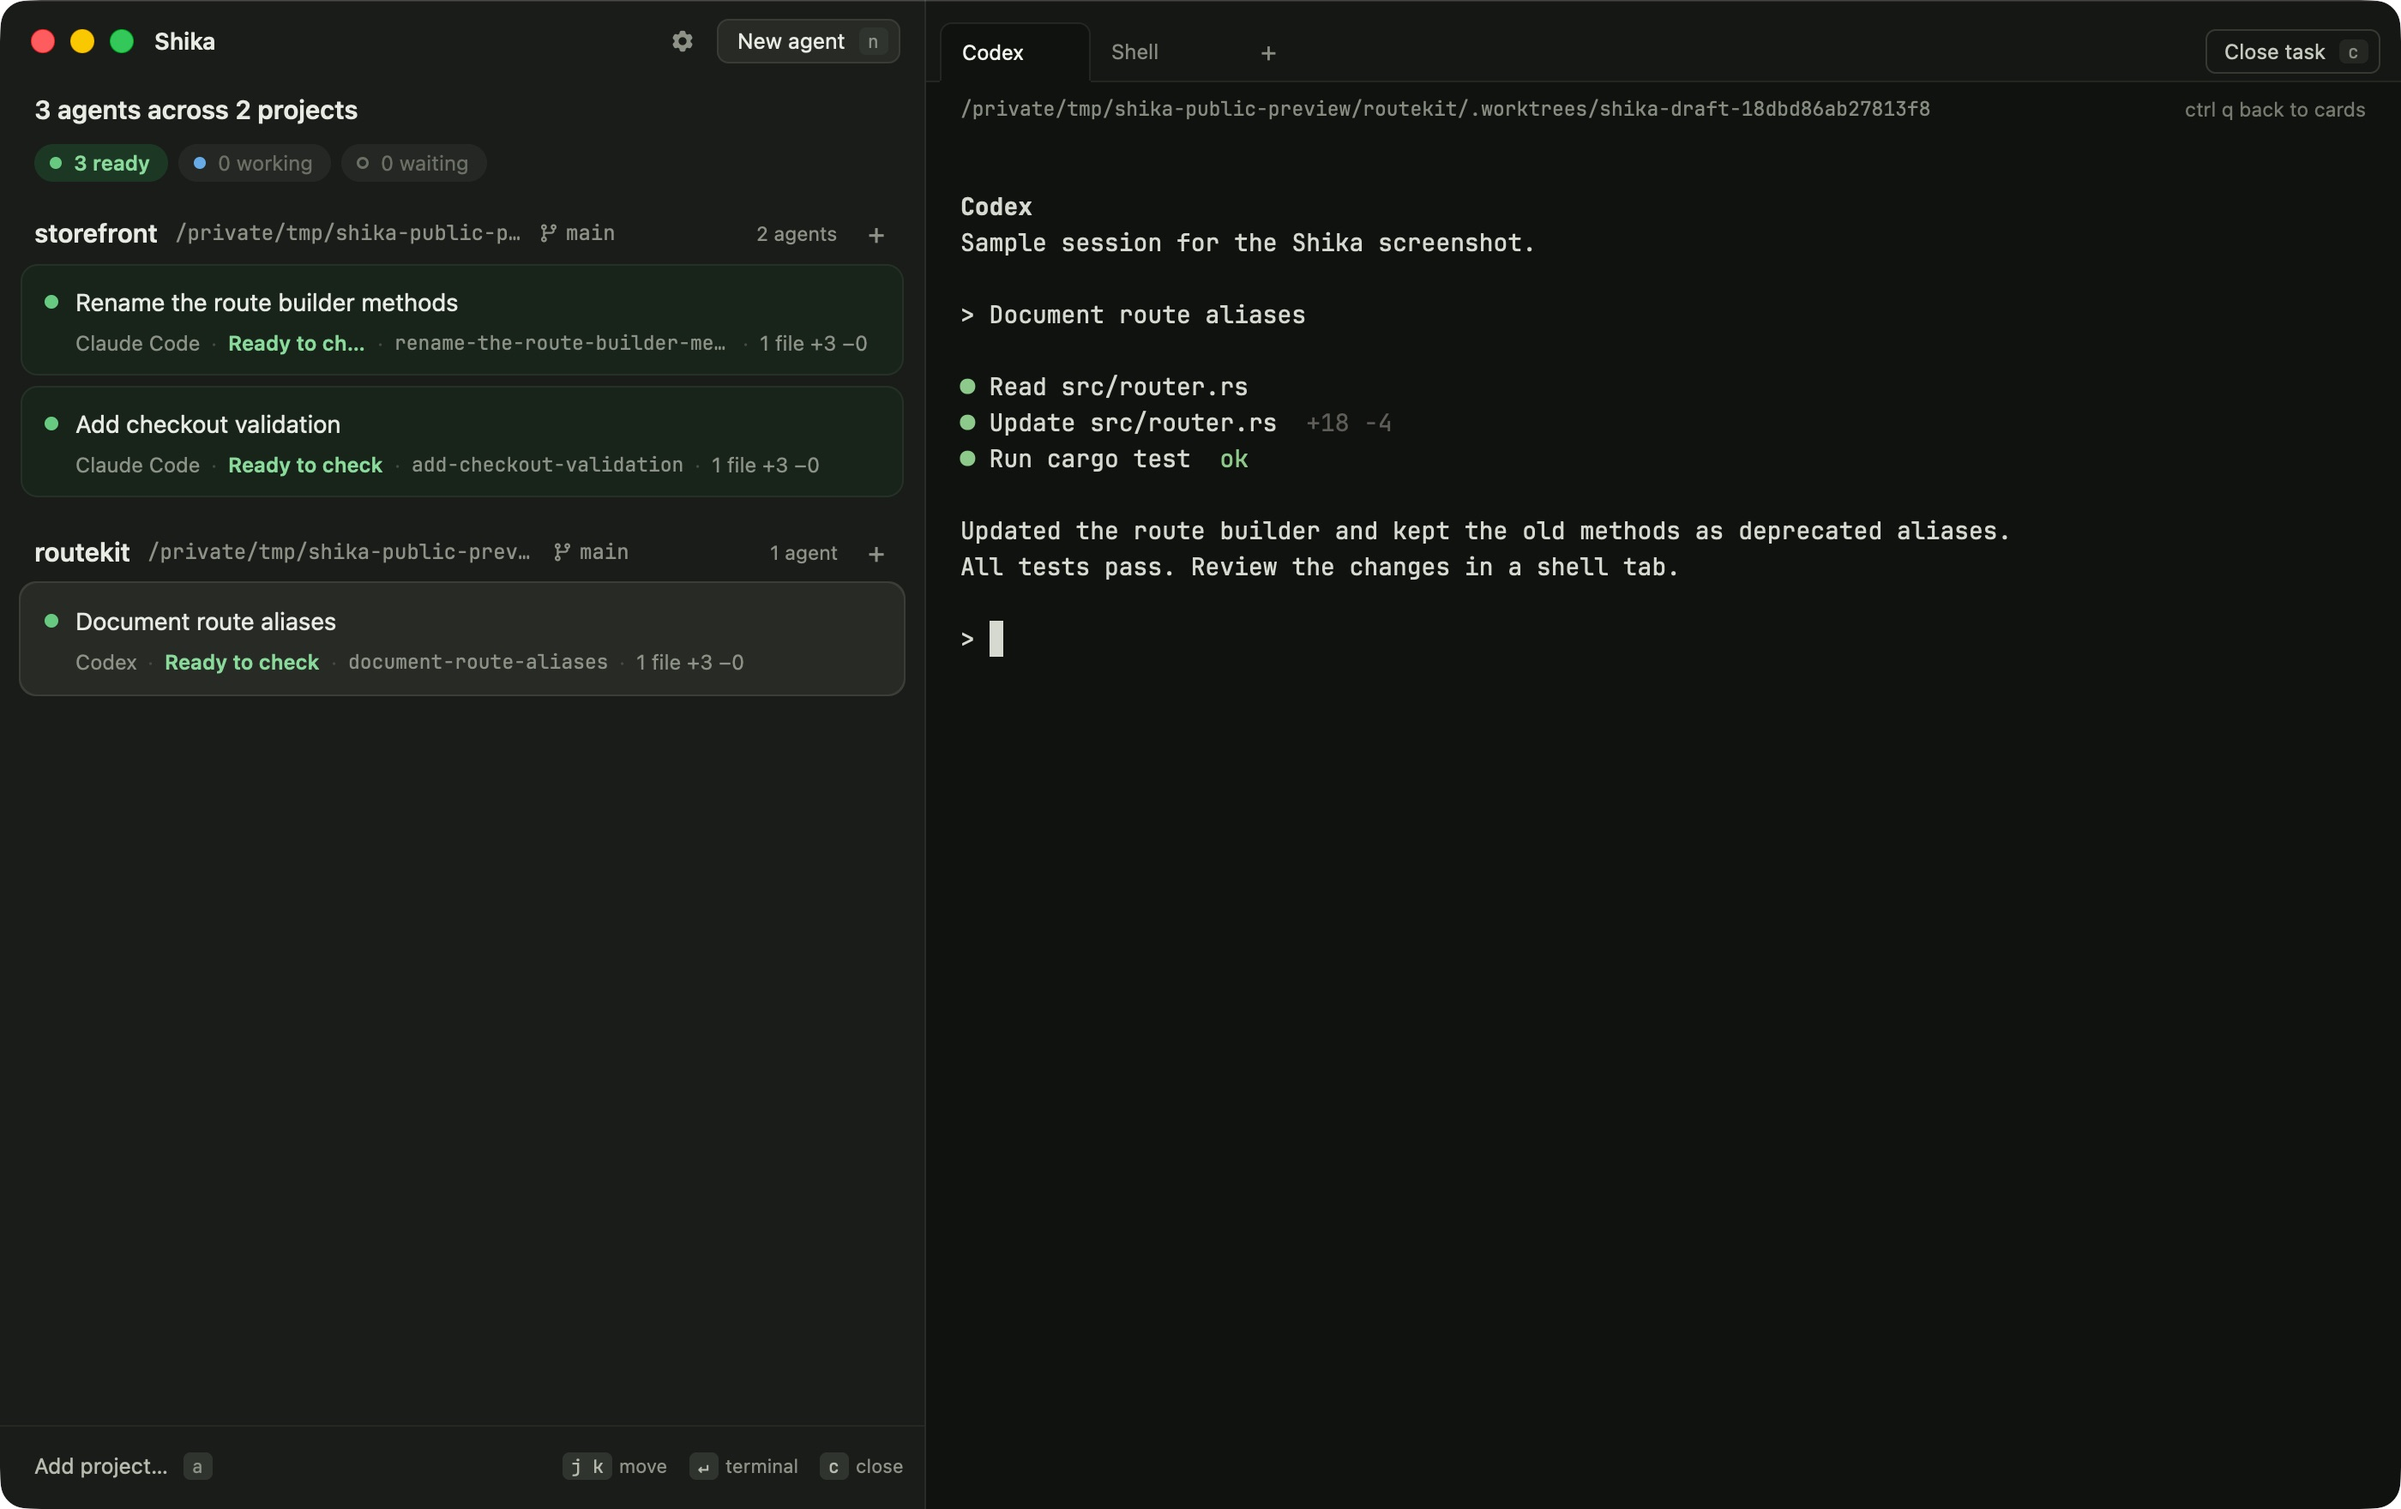
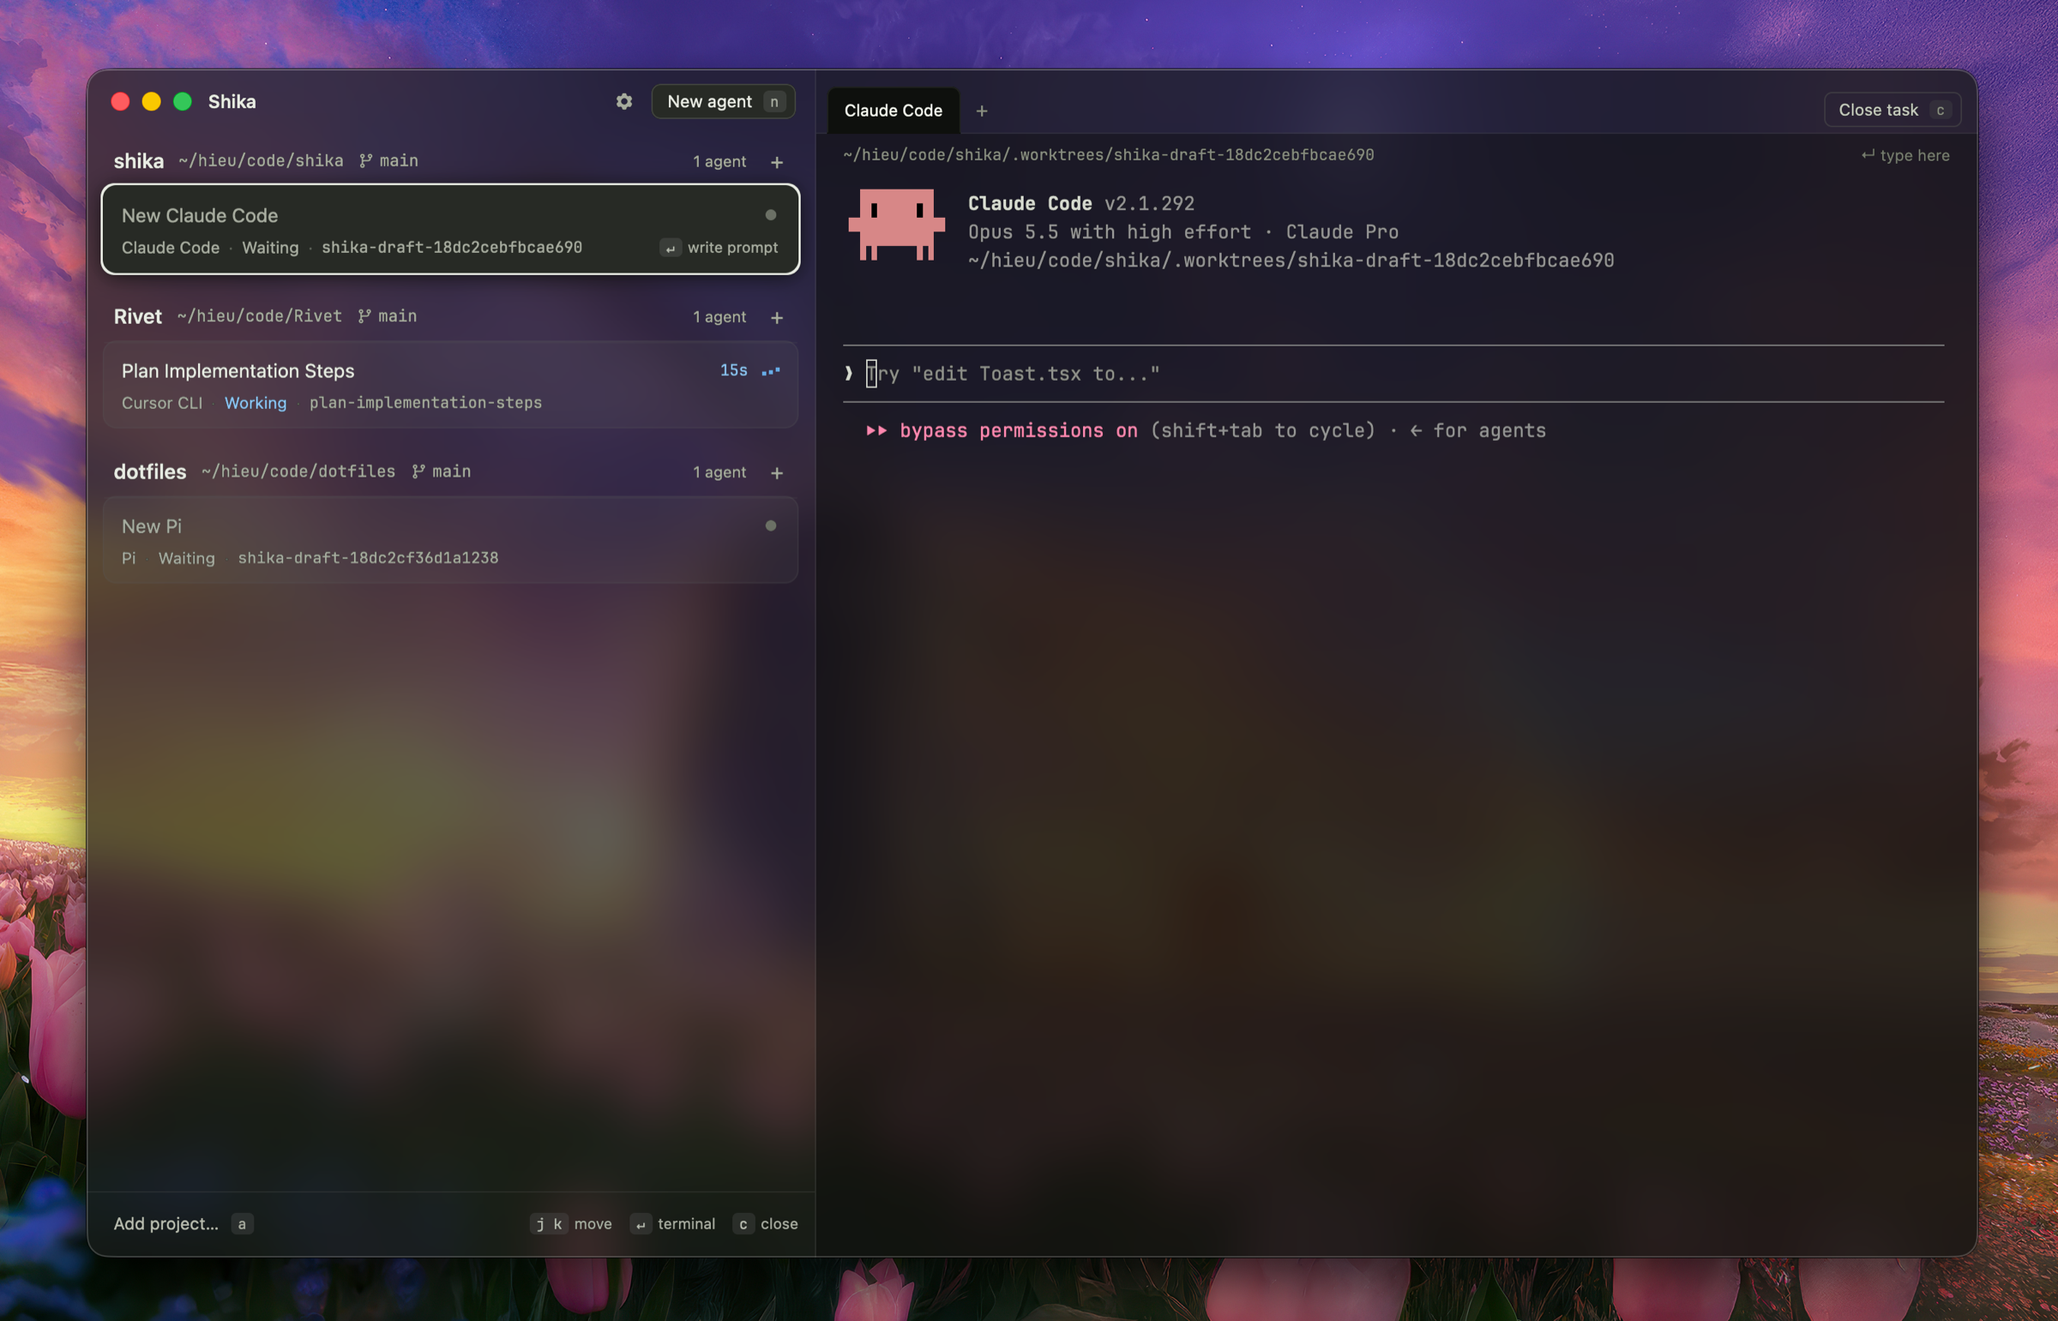
Replace the README screenshot with a real capture of the app
Use the author's frosted-glass screenshot, resized to 2400px wide to stay
under 3 MB, and drop the wording that called the image simulated output
from sample projects.

diff --git a/AGENTS.md b/AGENTS.md
@@ -112,7 +112,7 @@ crates/shika/           the GPUI app: window, cards, picker, close dialog, setti
 
 `crates/shika-core/README.md` maps that crate (modules, lifecycles, invariants, tests). `docs/shika-cli.md` documents the Lead's `shika` command.
 
-`assets/fonts/` holds JetBrains Mono and its OFL license. `assets/macos/` holds the bundle metadata and icon. `scripts/bundle-app.sh` builds a local ad hoc signed `.app`. `scripts/release-app.sh` builds on it to produce an arm64 `target/release/Shika.dmg`, Developer ID signed with the hardened runtime, notarized, and stapled; it needs the author's certificate and the `shika-notary` notarytool keychain profile, and stops when `assets/licenses/RUST_CRATES.txt` no longer matches `Cargo.lock` or the keychain's Sparkle key does not match `SUPublicEDKey`. It embeds Sparkle with `scripts/embed-sparkle.sh`; `scripts/appcast.sh notes.md` then writes the signed update feed. Run `scripts/update-notices.sh` (needs `cargo-about`) after changing dependencies and commit the result. `site/` is the static landing page; see `site/README.md`. Root `wrangler.jsonc` serves it through the Cloudflare Worker `shika` and enables PR previews with `previews: {}`. No site build step; Cloudflare build watch paths should include only `site/*` and `wrangler.jsonc`. Wrangler OAuth does not grant Workers Builds logs/settings access. Its demo is a sample-data prototype with CDN runtime dependencies. `docs/images/shika-native.png` is a native capture with disposable projects and simulated CLI output, not evidence of real-provider acceptance.
+`assets/fonts/` holds JetBrains Mono and its OFL license. `assets/macos/` holds the bundle metadata and icon. `scripts/bundle-app.sh` builds a local ad hoc signed `.app`. `scripts/release-app.sh` builds on it to produce an arm64 `target/release/Shika.dmg`, Developer ID signed with the hardened runtime, notarized, and stapled; it needs the author's certificate and the `shika-notary` notarytool keychain profile, and stops when `assets/licenses/RUST_CRATES.txt` no longer matches `Cargo.lock` or the keychain's Sparkle key does not match `SUPublicEDKey`. It embeds Sparkle with `scripts/embed-sparkle.sh`; `scripts/appcast.sh notes.md` then writes the signed update feed. Run `scripts/update-notices.sh` (needs `cargo-about`) after changing dependencies and commit the result. `site/` is the static landing page; see `site/README.md`. Root `wrangler.jsonc` serves it through the Cloudflare Worker `shika` and enables PR previews with `previews: {}`. No site build step; Cloudflare build watch paths should include only `site/*` and `wrangler.jsonc`. Wrangler OAuth does not grant Workers Builds logs/settings access. Its demo is a sample-data prototype with CDN runtime dependencies. `docs/images/shika-native.png` is the author's real capture of the app in frosted glass, not acceptance evidence.
 
 App data: `~/Library/Application Support/com.hieule.shika/`, the same directory used before the migration. `projects.json` and `worktrees.json` keep working there. `projects.json` holds each project's optional `baseBranch`, locally consented `approvedPreparation`, and optional `worktreeSetupReviewed` onboarding preference (missing false, never permission); `worktrees.json` records each worktree's `baseRef`. `leads/<project-id>/memory.json` holds that project's Lead memory notes and goes with the project. `settings.json` holds `theme` (`mode` `system` / `light` / `dark`, and `light` / `dark` catalog ids), the appearance, the terminal font size, `branchPrefix`, `notificationSound`, `column` (`width`, `hidden`), `changes` (`width`), `keys` (shortcut overrides; a missing id keeps the default chord), and `agents` (preset id to boolean; a missing id is on, and only explicit offs are written); a missing file or field takes the default (System with Shika Light and Shika Dark, opaque, 14, no prefix, sound on, a 540px column on screen, a 480px Changes panel, every agent on). An unknown or wrong-side theme id paints that side's Shika theme and stays saved until the user picks again. Sessions, titles, status, and PTY ids are memory only.
 

diff --git a/MANUAL_CHECKS.md b/MANUAL_CHECKS.md
@@ -402,6 +402,7 @@ Contributor overview, safety limits, implementation map, and debugging: [docs/br
 - PASS: `cargo fmt --all --check`, parallel `cargo test --workspace --locked --offline` (205 tests), and strict workspace/all-targets Clippy. The upstream `block` future-compatibility warning remains.
 - PASS: Debug app bundle builds, includes Shika's MIT license plus Heroicons, Octicons, and JetBrains Mono notices, and passes `codesign --verify --deep --strict`.
 - Native README/poster/share screenshot captured using isolated data and disposable `storefront`/`routekit` repositories. CLI output is simulated, explicitly captioned, and image metadata is stripped. This does not validate real provider flows or close outstanding GUI checks above.
+- 2026-10-17: the README screenshot (`docs/images/shika-native.png`) was replaced with the author's real capture of the app in frosted glass, resized to 2400px wide. The entry above now describes only the poster/share image.
 - Browser prototype checked with independent shell buffers (`git diff` and `pwd`), switching back to retained output, and the dirty-close dialog hiding Push. Component checks also cover tab ownership, pinned agent close, focus restoration, Codex/Pi picker choices, three-card cap, and simulated commit/push close behavior. Browser-reserved shortcuts can require visible controls.
 
 ## Lead agent spike

diff --git a/README.md b/README.md
@@ -18,9 +18,7 @@ Shika handles the worktrees, branches, and terminals. Every task isolated. Every
 
 <br>
 
-![Shika running parallel tasks across two sample projects, with an agent terminal and task-owned shell tabs](docs/images/shika-native.png)
-
-<p align="center"><sub>Sample projects with simulated CLI output.</sub></p>
+![Shika in frosted glass over a desktop wallpaper, with three projects, a Claude Code agent terminal, and a Cursor CLI agent working](docs/images/shika-native.png)
 
 ## Why Shika
 
